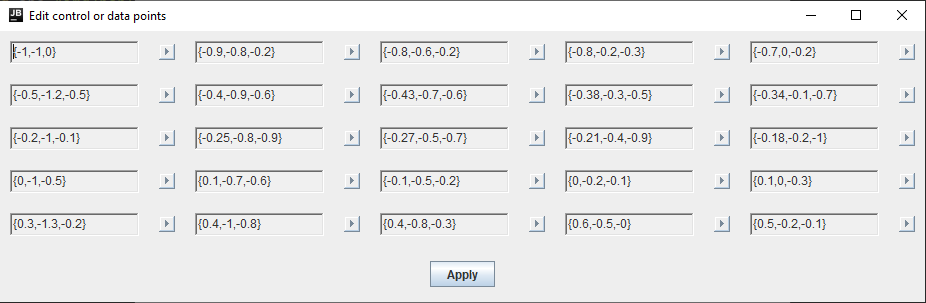
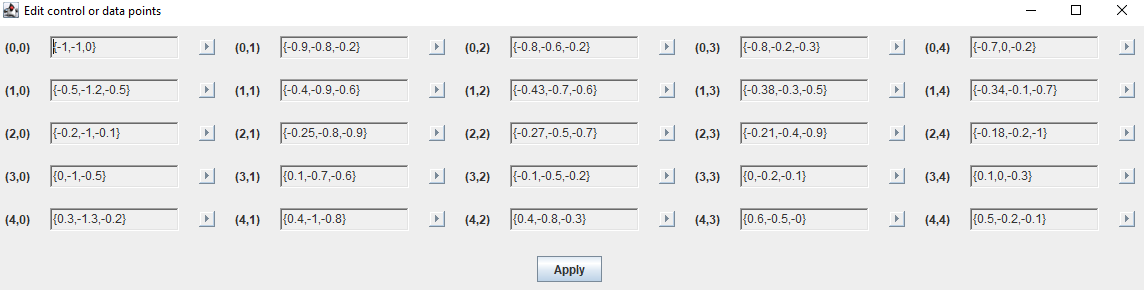
added control point label, fixed img in webpage

diff --git a/src/main/java/gui/ControlPointsFrame.java b/src/main/java/gui/ControlPointsFrame.java
@@ -15,6 +15,7 @@ import java.awt.geom.Line2D;
 class ControlPointsFrame extends JFrame implements ActionListener, WindowListener {
 
     private final Visualizer visualizer;
+    private JLabel[][] labelsCP;
     private TextField[][] textFieldsCP;
     Vector3f[][] controlPoints;
     private Vector3f[][] original;
@@ -61,22 +62,25 @@ class ControlPointsFrame extends JFrame implements ActionListener, WindowListene
                 } else {
                     textFieldsCP[i][j] = new TextField("{0,0,0}");
                 }
+                JLabel label = new JLabel("("+i+","+j+")");
                 textFieldsCP[i][j].setEditable(false);
                 buttonsCP[i][j] = new BasicArrowButton(BasicArrowButton.BOTTOM);
                 buttonsCP[i][j].addActionListener(this);
                 buttonsCP[i][j].setName(i+","+j);
                 buttonsCP[i][j].setActionCommand("edit_cp");
-                c.gridx=j*2;
+                c.gridx=j*3;
                 c.gridy=i;
+                mainPanel.add(label, c);
+                c.gridx=j*3+1;
                 mainPanel.add(textFieldsCP[i][j], c);
-                c.gridx=j*2+1;
+                c.gridx=j*3+2;
                 mainPanel.add(buttonsCP[i][j], c);
             }
         }
         Panel buttonPanel = new Panel();
         c.gridy++;
         c.gridx = 0;
-        c.gridwidth=n*2;
+        c.gridwidth=n*3;
         buttonPanel.add(applyButton, CENTER_ALIGNMENT);
         mainPanel.add(buttonPanel,c);
         this.add(mainPanel);
